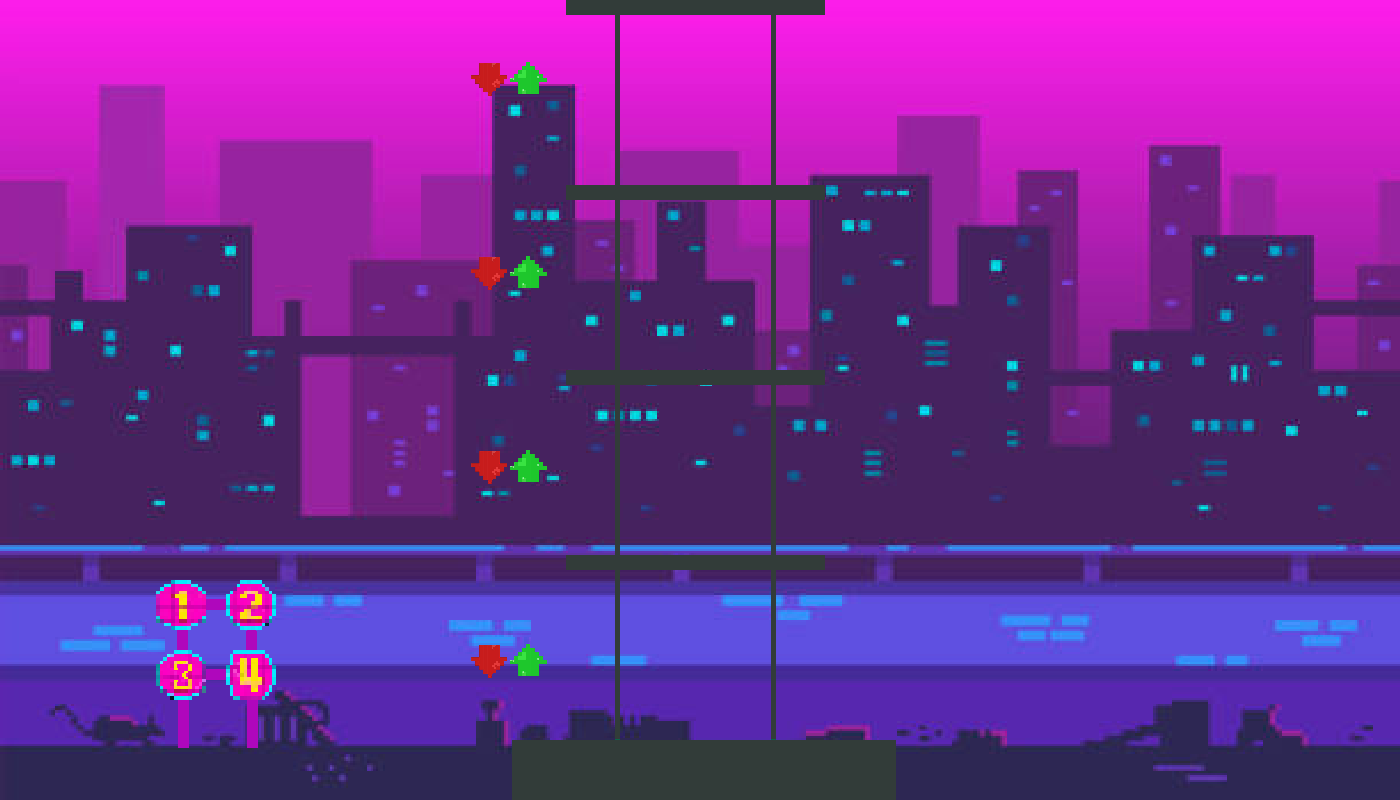
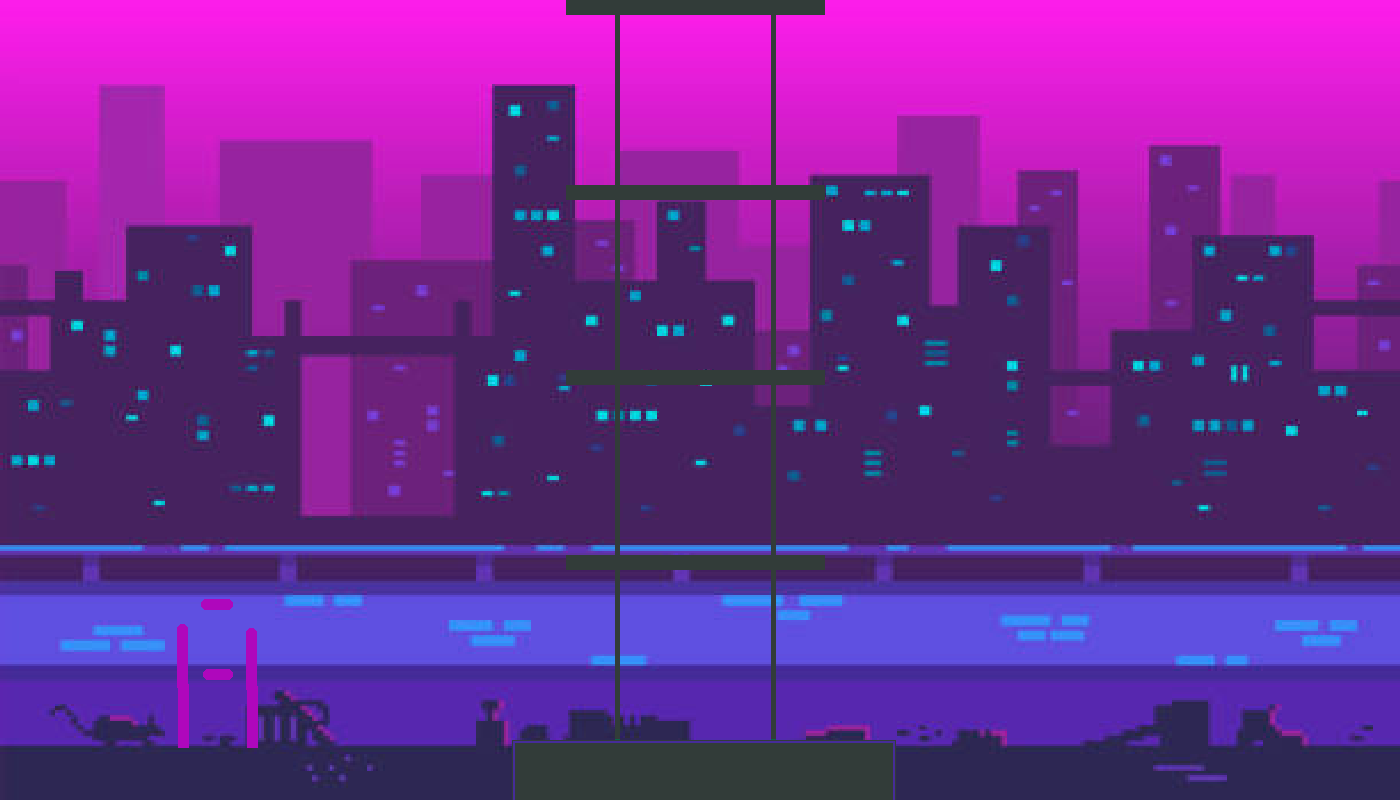
implementando la funcionabilidad de los botones y colocancdo los botones numericos

diff --git a/Proyecto.py b/Proyecto.py
@@ -4,13 +4,19 @@ from operator import truediv
 from pygame import*
 import sys ,time
 WHITE=(255,255,255)
-
+##
 ancho=1400
 largo=800
 posicionInicialX=620
+posicionInicialY=570
 CantidSube=185
 cont=0
-posicionInicialY=570
+##
+Actual=2
+Pedido=3
+Preguntar=True
+velocidad=5
+
 
 def cargar_animacion(prefijo,sufijo,n):
     images=[]
@@ -42,12 +48,14 @@ def mover_arriba(PisoRequerido,PisoActual):
         posicionInicialY=posicion_y
         Piso=PisoRequerido-PisoActual
         posicion_y=-(Piso*CantidSube)+posicion_y
-    elif PisoActual==4 and PisoActual<PisoRequerido:
+    elif PisoActual==4 :
         posicion_y=15
         posicionInicialY=posicion_y
         Piso=PisoRequerido-PisoActual
         posicion_y=-(Piso*CantidSube)+posicion_y
-
+    else:
+        posicion_y=15
+        posicionInicialY=posicion_y
     return posicion_y
 
 def mover_abajo(PisoRequerido, PisoActual):
@@ -55,47 +63,41 @@ def mover_abajo(PisoRequerido, PisoActual):
     posicion_y=0
     if PisoActual==4 and PisoActual>PisoRequerido:
         posicion_y=15
-        #posicionInicialY=posicion_y
+        posicionInicialY=posicion_y
         Piso=PisoActual-PisoRequerido
         posicion_y=posicion_y+(CantidSube*Piso)
     elif PisoActual==3 and PisoActual>PisoRequerido:
         posicion_y=185
-        #posicionInicialY=posicion_y
+        posicionInicialY=posicion_y
         Piso=PisoActual-PisoRequerido
         posicion_y=posicion_y+(CantidSube*Piso)
     elif PisoActual==2 and PisoActual>PisoRequerido:
         posicion_y=385
-        #posicionInicialY=posicion_y
+        posicionInicialY=posicion_y
         Piso=PisoActual-PisoRequerido
         posicion_y=posicion_y+(CantidSube*Piso)
-    elif PisoActual==1 and PisoActual>PisoRequerido:
+    elif PisoActual==1:
         posicion_y=570
-        #posicionInicialY=posicion_y
+        posicionInicialY=posicion_y
         Piso=PisoActual-PisoRequerido
         posicion_y=posicion_y+(CantidSube*Piso)
-
+    else:
+        posicion_y=570
+        posicionInicialY=posicion_y
     return posicion_y
 
 def PuertaAbrir():
-        mostrar_animacion(screen,Abriendo,1,posicionInicialX,CantidSube1)
-        mostrar_animacion(screen,Abrierto,1,posicionInicialX,CantidSube1)
+        mostrar_animacion(screen,Abriendo,1,posicionInicialX,posicionInicialY)
+        mostrar_animacion(screen,Abrierto,1,posicionInicialX,posicionInicialY)
 def PuertaCerrar():
-        mostrar_animacion(screen,Cerrando,1,posicionInicialX,cantidBaja1)
-        mostrar_animacion(screen,Cerrado,1,posicionInicialX,cantidBaja1)
-
-
-
+        mostrar_animacion(screen,Cerrando,1,posicionInicialX,posicionInicialY)
+        mostrar_animacion(screen,Cerrado,1,posicionInicialX,posicionInicialY)
 
 ##################
 init()
-
-Actual=1
-Pedido=1
-velocidad=5
 #if not Actual==3:
-posicionInicialY=570-((Actual-1)*185)
+#posicionInicialY=570-((Actual-1)*185)
 #else:
-posicionInicialY=570-((Actual-1)*185)
 
 
 #detremina cuando se oprime un boton y arroja el valor de la posicion en ´pixels
@@ -106,9 +108,19 @@ screen=display.set_mode((ancho,largo))
 
 #carga el fondo
 fondo=image.load('./AscensorImagenes/fondo3.png')
+BotonArriba1=image.load('./AscensorImagenes/BotonArriba.png').convert_alpha()
+BotonArriba2=image.load('./AscensorImagenes/BotonArriba.png').convert_alpha()
+BotonArriba3=image.load('./AscensorImagenes/BotonArriba.png').convert_alpha()
+BotonArriba4=image.load('./AscensorImagenes/BotonArriba.png').convert_alpha()
+BotonAbajo1=image.load('./AscensorImagenes/BotonAbajo.png').convert_alpha()
+BotonAbajo2=image.load('./AscensorImagenes/BotonAbajo.png').convert_alpha()
+BotonAbajo3=image.load('./AscensorImagenes/BotonAbajo.png').convert_alpha()
+BotonAbajo4=image.load('./AscensorImagenes/BotonAbajo.png').convert_alpha()
 
-
-
+BotonNumero1=image.load('./AscensorImagenes/BotonNumero1.png').convert_alpha()
+BotonNumero2=image.load('./AscensorImagenes/BotonNumero2.png').convert_alpha()
+BotonNumero3=image.load('./AscensorImagenes/BotonNumero3.png').convert_alpha()
+BotonNumero4=image.load('./AscensorImagenes/BotonNumero4.png').convert_alpha()
 
 #carga animaciones
 Abriendo=cargar_animacion("./AscensorImagenes/Cerrando",".png",3)
@@ -125,28 +137,122 @@ Abrierto=cargar_animacion("./AscensorImagenes/Cerrando",".png",1)
 #CantidBaja1=mover_abajo(Pedido,Actual)
 CantidSube1=mover_arriba(Pedido,Actual)
 cantidBaja1=mover_abajo(Pedido,Actual)
+
+###########BOTON ABAJO
+RectImagenBotonAbajo1=BotonAbajo1.get_rect()
+RectImagenBotonAbajo1.left,RectImagenBotonAbajo1.top= (471,644)
+
+RectImagenBotonAbajo2=BotonAbajo2.get_rect()
+RectImagenBotonAbajo2.left,RectImagenBotonAbajo2.top= (471,450)
+
+RectImagenBotonAbajo3=BotonAbajo1.get_rect()
+RectImagenBotonAbajo3.left,RectImagenBotonAbajo3.top= (471,256)
+
+RectImagenBotonAbajo4=BotonAbajo1.get_rect()
+RectImagenBotonAbajo4.left,RectImagenBotonAbajo4.top= (471,62)
+
+############BOTON ARRIBA
+RectImagenBotonArriba1=BotonArriba1.get_rect()
+RectImagenBotonArriba1.left,RectImagenBotonArriba1.top= (510,644)
+
+RectImagenBotonArriba2=BotonArriba2.get_rect()
+RectImagenBotonArriba2.left,RectImagenBotonArriba2.top= (510,450)
+
+RectImagenBotonArriba3=BotonArriba3.get_rect()
+RectImagenBotonArriba3.left,RectImagenBotonArriba3.top= (510,256)
+
+RectImagenBotonArriba4=BotonArriba4.get_rect()
+RectImagenBotonArriba4.left,RectImagenBotonArriba4.top= (510,62)
+
+############BOTONES CON NUMEROS
+
+RectImagenBotonNumero1=BotonNumero1.get_rect()
+RectImagenBotonNumero1.left,RectImagenBotonNumero1.top= (156,580)
+
+RectImagenBotonNumero2=BotonNumero2.get_rect()
+RectImagenBotonNumero2.left,RectImagenBotonNumero2.top= (226,580)
+
+RectImagenBotonNumero3=BotonNumero3.get_rect()
+RectImagenBotonNumero3.left,RectImagenBotonNumero3.top= (156,650)
+
+RectImagenBotonNumero4=BotonNumero4.get_rect()
+RectImagenBotonNumero4.left,RectImagenBotonNumero4.top= (226,650)
+
 preguntar=True
 puerta=False
 MostrarPuerta=True
+
+
+########################################################################
 #inicio del programa
 while True:
     screen.fill((255,255,255))
     for e in event.get():
         if e.type == QUIT: sys.exit()
+        if e.type == MOUSEBUTTONDOWN and e.button ==1:
+################################################################################################
+##BOTON DE BAJADA
+            if animando == False:
+                print(Actual,Pedido)
+                if RectImagenBotonAbajo1.collidepoint(mouse.get_pos()):                      
+                    Pedido=Pedido-1
+                    if Pedido==0 or Actual==2 or Actual==3 or Actual==4 or Actual==5:
+                        Pedido=Pedido+1
+                elif RectImagenBotonAbajo2.collidepoint(mouse.get_pos()):                      
+                    Pedido=Pedido-1
+                    if Pedido==0 or Actual==3 or Actual==4 or Actual==5:
+                        Pedido=Pedido+1
+                elif RectImagenBotonAbajo3.collidepoint(mouse.get_pos()):                     
+                    Pedido=Pedido-1
+                    if Pedido==1 or Actual==4 or Actual==5:
+                        Pedido=Pedido+1
+                elif RectImagenBotonAbajo4.collidepoint(mouse.get_pos()):                      
+                    Pedido=Pedido-1
+                    if Pedido==2 or Pedido==1 or Pedido==0:
+                        Pedido=Pedido+1
+    ################################################################################################
+    ##BOTON DE SUBIDA
+                elif RectImagenBotonArriba4.collidepoint(mouse.get_pos()):                      
+                    Pedido=Pedido+1
+                    if Pedido==5 or Actual==0 or Actual==1 or Actual==2 or Actual==3:
+                        Pedido=Pedido-1
+                elif RectImagenBotonArriba3.collidepoint(mouse.get_pos()):                      
+                    Pedido=Pedido+1
+                    if Pedido==5 or Actual==0 or Actual==1 or Actual==2:
+                        Pedido=Pedido-1
+                elif RectImagenBotonArriba2.collidepoint(mouse.get_pos()):                     
+                    Pedido=Pedido+1
+                    if Pedido==4 or Actual==0 or Actual==1 or Actual==4:
+                        Pedido=Pedido-1
+                elif RectImagenBotonArriba1.collidepoint(mouse.get_pos()):                      
+                    Pedido=Pedido+1
+                    if Pedido==3 or Pedido==4 or Pedido==5:
+                        Pedido=Pedido-1
+
+            print(Actual,Pedido)
     screen.blit(fondo,(0,0))
-
-
     screen.blit(fondo,(0,0))
+    screen.blit(BotonArriba1,(510,644))
+    screen.blit(BotonArriba2,(510,450))
+    screen.blit(BotonArriba3,(510,256))
+    screen.blit(BotonArriba4,(510,62))
+    screen.blit(BotonAbajo1,(471,644))   
+    screen.blit(BotonAbajo2,(471,450))
+    screen.blit(BotonAbajo3,(471,256))
+    screen.blit(BotonAbajo4,(471,62))
+########## 
 
 
 
-
+########## PREGUNTA EL PISO Y MUEVE O BAJA DE PISO
     if Pedido>Actual and preguntar==True:
+        CantidSube1=mover_arriba(Pedido,Actual)
         y=-CantidSube1+posicionInicialY
         Arriba=True
         Abajo=False
         preguntar=False
     elif Pedido<Actual and preguntar==True:
+        cantidBaja1=mover_abajo(Pedido,Actual)
         y=cantidBaja1-posicionInicialY
         Abajo=True
         Arriba=False
@@ -154,30 +260,48 @@ while True:
     elif preguntar==True and Pedido==Actual:
         Arriba=False
         Abajo=False
-        preguntar=True 
+        preguntar=True
+        animando=False
         mostrar_animacion(screen,Abrierto,1,posicionInicialX,posicionInicialY)
+        #print("quieto")
 
     if  Arriba==True:
         if y>cont:
             if MostrarPuerta==True:
                 PuertaCerrar()
-
+                MostrarPuerta=False
             mostrar_animacion(screen,Cerrado,1,posicionInicialX,posicionInicialY-cont)
+            animando=True
+            #print("subiendo")
             cont=cont+velocidad
         else:
-            PuertaAbrir()
+            Arriba =False
             MostrarPuerta=True
+            Actual=Pedido
+            posicionInicialY=CantidSube1
+            preguntar=True
+            cont=0
+            animando=False
+            PuertaAbrir()
     elif Abajo==True:
         if y>cont:
+            if MostrarPuerta==True:
+                PuertaCerrar()
+                MostrarPuerta=False
             mostrar_animacion(screen,Cerrado,1,posicionInicialX,posicionInicialY+cont)
+            animando=True
+            #print("bajando")
             cont=cont+velocidad
         else:
-            PuertaAbrir()
+            Abajo=False
             MostrarPuerta = True
+            Actual=Pedido
+            posicionInicialY=cantidBaja1
+            preguntar=True  
+            cont=0
+            PuertaAbrir()
     #if Activado==True:
     #    mostrar_animacion(screen,Abrierto,2,posicionInicialX,CantidSube1)
     #else:
-        
-
     display.flip()
     display.update()
